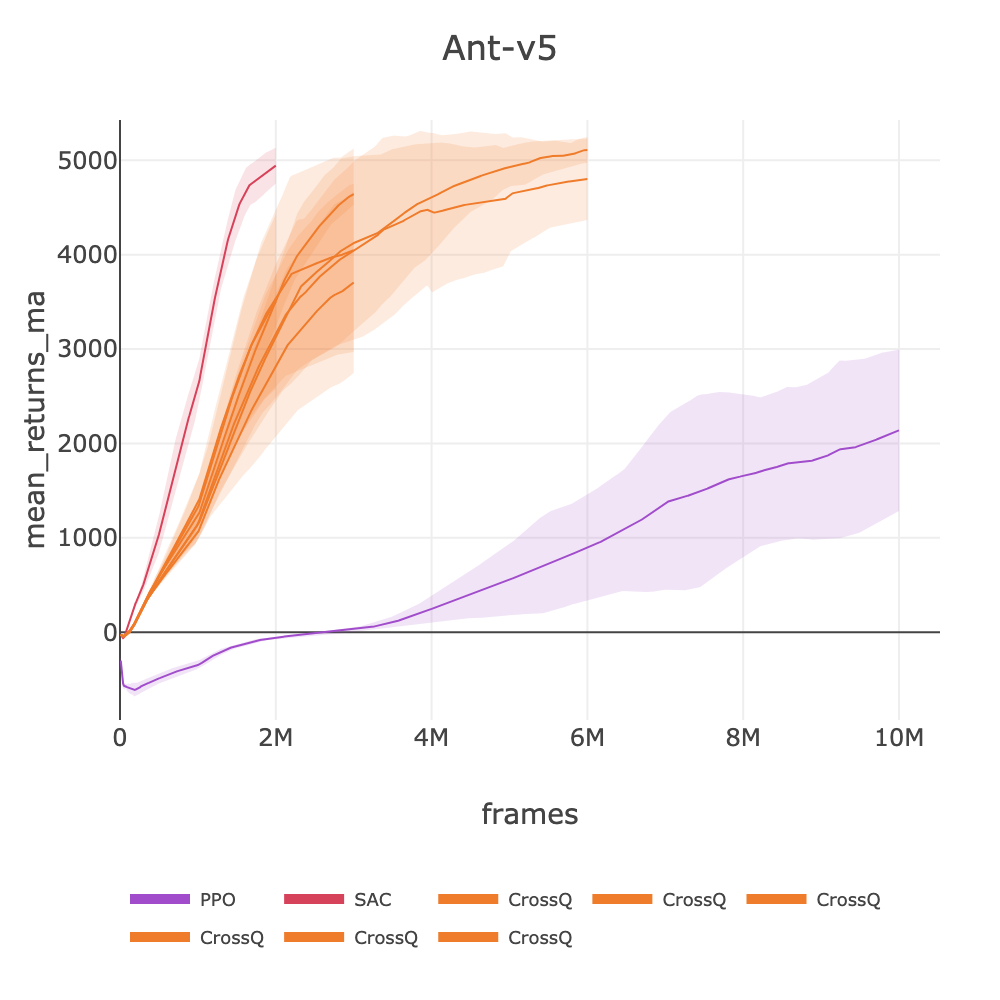
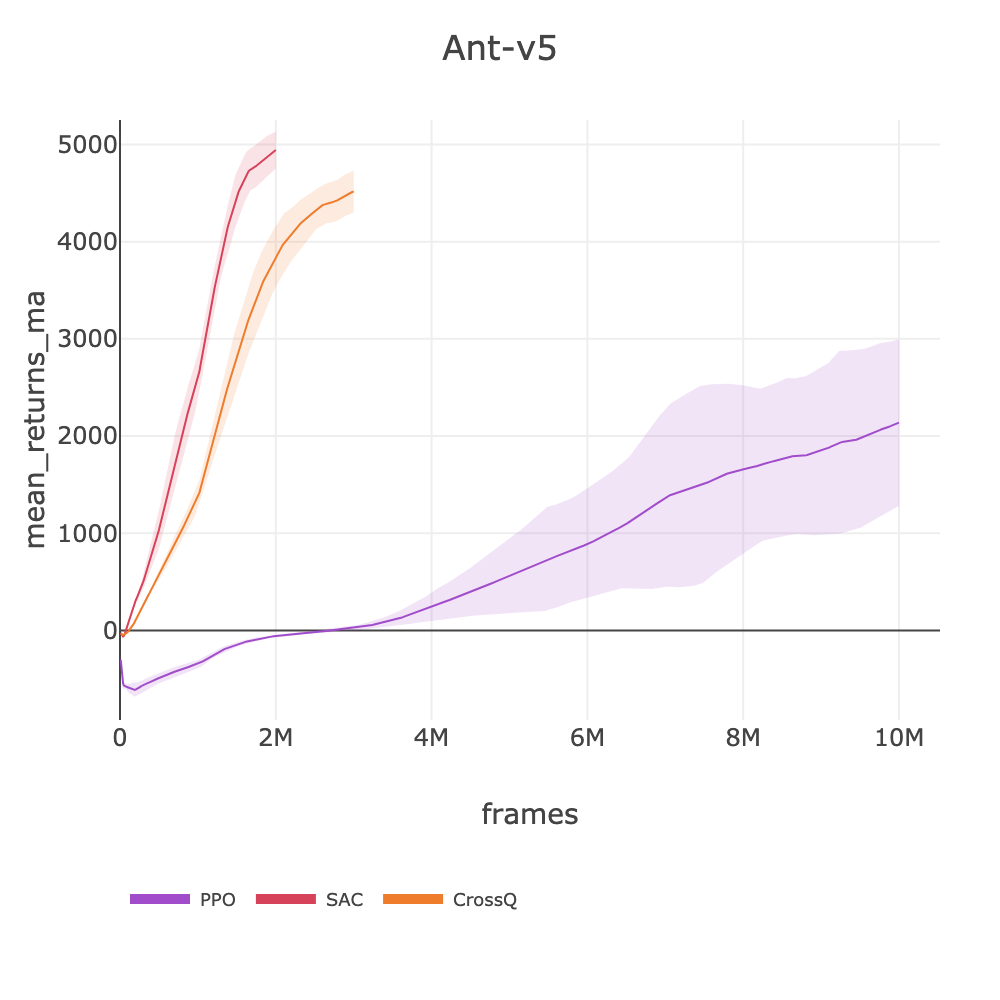
docs: update CrossQ Ant, HalfCheetah, InvDoublePendulum scores and plots from reruns

diff --git a/docs/BENCHMARKS.md b/docs/BENCHMARKS.md
@@ -278,7 +278,7 @@ source .env && slm-lab run-remote --gpu \
 |-----------|--------|-----|-----------|-----------|---------|
 | PPO | ✅ | 2138.28 | [slm_lab/spec/benchmark_arc/ppo/ppo_mujoco_arc.yaml](../slm_lab/spec/benchmark_arc/ppo/ppo_mujoco_arc.yaml) | ppo_ant_arc | [ppo_ant_arc_ant_2026_02_12_190644](https://huggingface.co/datasets/SLM-Lab/benchmark/tree/main/data/ppo_ant_arc_ant_2026_02_12_190644) |
 | SAC | ✅ | 4942.91 | [slm_lab/spec/benchmark_arc/sac/sac_mujoco_arc.yaml](../slm_lab/spec/benchmark_arc/sac/sac_mujoco_arc.yaml) | sac_ant_arc | [sac_ant_arc_2026_02_11_225529](https://huggingface.co/datasets/SLM-Lab/benchmark/tree/main/data/sac_ant_arc_2026_02_11_225529) |
-| CrossQ | ✅ | 5108.47 | [slm_lab/spec/benchmark/crossq/crossq_mujoco.yaml](../slm_lab/spec/benchmark/crossq/crossq_mujoco.yaml) | crossq_ant | [crossq_ant_ln_7m_2026_02_22_015136](https://huggingface.co/datasets/SLM-Lab/benchmark/tree/main/data/crossq_ant_ln_7m_2026_02_22_015136) |
+| CrossQ | ✅ | 4517.00 | [slm_lab/spec/benchmark/crossq/crossq_mujoco.yaml](../slm_lab/spec/benchmark/crossq/crossq_mujoco.yaml) | crossq_ant | [crossq_ant_2026_03_01_102428](https://huggingface.co/datasets/SLM-Lab/benchmark/tree/main/data/crossq_ant_2026_03_01_102428) |
 
 ![Ant-v5](plots/Ant-v5_multi_trial_graph_mean_returns_ma_vs_frames.png)
 
@@ -292,7 +292,7 @@ source .env && slm-lab run-remote --gpu \
 |-----------|--------|-----|-----------|-----------|---------|
 | PPO | ✅ | 6240.68 | [slm_lab/spec/benchmark_arc/ppo/ppo_mujoco_arc.yaml](../slm_lab/spec/benchmark_arc/ppo/ppo_mujoco_arc.yaml) | ppo_mujoco_arc | [ppo_mujoco_arc_halfcheetah_2026_02_12_195553](https://huggingface.co/datasets/SLM-Lab/benchmark/tree/main/data/ppo_mujoco_arc_halfcheetah_2026_02_12_195553) |
 | SAC | ✅ | 9815.16 | [slm_lab/spec/benchmark_arc/sac/sac_mujoco_arc.yaml](../slm_lab/spec/benchmark_arc/sac/sac_mujoco_arc.yaml) | sac_halfcheetah_arc | [sac_halfcheetah_4m_i2_arc_2026_02_14_185522](https://huggingface.co/datasets/SLM-Lab/benchmark/tree/main/data/sac_halfcheetah_4m_i2_arc_2026_02_14_185522) |
-| CrossQ | ✅ | 9969.18 | [slm_lab/spec/benchmark/crossq/crossq_mujoco.yaml](../slm_lab/spec/benchmark/crossq/crossq_mujoco.yaml) | crossq_halfcheetah | [crossq_halfcheetah_ln_8m_2026_02_22_111117](https://huggingface.co/datasets/SLM-Lab/benchmark/tree/main/data/crossq_halfcheetah_ln_8m_2026_02_22_111117) |
+| CrossQ | ✅ | 8616.52 | [slm_lab/spec/benchmark/crossq/crossq_mujoco.yaml](../slm_lab/spec/benchmark/crossq/crossq_mujoco.yaml) | crossq_halfcheetah | [crossq_halfcheetah_2026_03_01_101317](https://huggingface.co/datasets/SLM-Lab/benchmark/tree/main/data/crossq_halfcheetah_2026_03_01_101317) |
 
 ![HalfCheetah-v5](plots/HalfCheetah-v5_multi_trial_graph_mean_returns_ma_vs_frames.png)
 
@@ -348,7 +348,7 @@ source .env && slm-lab run-remote --gpu \
 |-----------|--------|-----|-----------|-----------|---------|
 | PPO | ✅ | 8383.76 | [slm_lab/spec/benchmark_arc/ppo/ppo_mujoco_arc.yaml](../slm_lab/spec/benchmark_arc/ppo/ppo_mujoco_arc.yaml) | ppo_inverted_double_pendulum_arc | [ppo_inverted_double_pendulum_arc_inverteddoublependulum_2026_02_12_225231](https://huggingface.co/datasets/SLM-Lab/benchmark/tree/main/data/ppo_inverted_double_pendulum_arc_inverteddoublependulum_2026_02_12_225231) |
 | SAC | ✅ | 9032.67 | [slm_lab/spec/benchmark_arc/sac/sac_mujoco_arc.yaml](../slm_lab/spec/benchmark_arc/sac/sac_mujoco_arc.yaml) | sac_inverted_double_pendulum_arc | [sac_inverted_double_pendulum_arc_2026_02_12_025206](https://huggingface.co/datasets/SLM-Lab/benchmark/tree/main/data/sac_inverted_double_pendulum_arc_2026_02_12_025206) |
-| CrossQ | ⚠ | 8255.82 | [slm_lab/spec/benchmark/crossq/crossq_mujoco.yaml](../slm_lab/spec/benchmark/crossq/crossq_mujoco.yaml) | crossq_inverted_double_pendulum | [crossq_inverted_double_pendulum_v2_2026_02_22_155616](https://huggingface.co/datasets/SLM-Lab/benchmark/tree/main/data/crossq_inverted_double_pendulum_v2_2026_02_22_155616) |
+| CrossQ | ✅ | 8027.38 | [slm_lab/spec/benchmark/crossq/crossq_mujoco.yaml](../slm_lab/spec/benchmark/crossq/crossq_mujoco.yaml) | crossq_inverted_double_pendulum | [crossq_inverted_double_pendulum_2026_03_01_101354](https://huggingface.co/datasets/SLM-Lab/benchmark/tree/main/data/crossq_inverted_double_pendulum_2026_03_01_101354) |
 
 ![InvertedDoublePendulum-v5](plots/InvertedDoublePendulum-v5_multi_trial_graph_mean_returns_ma_vs_frames.png)
 
